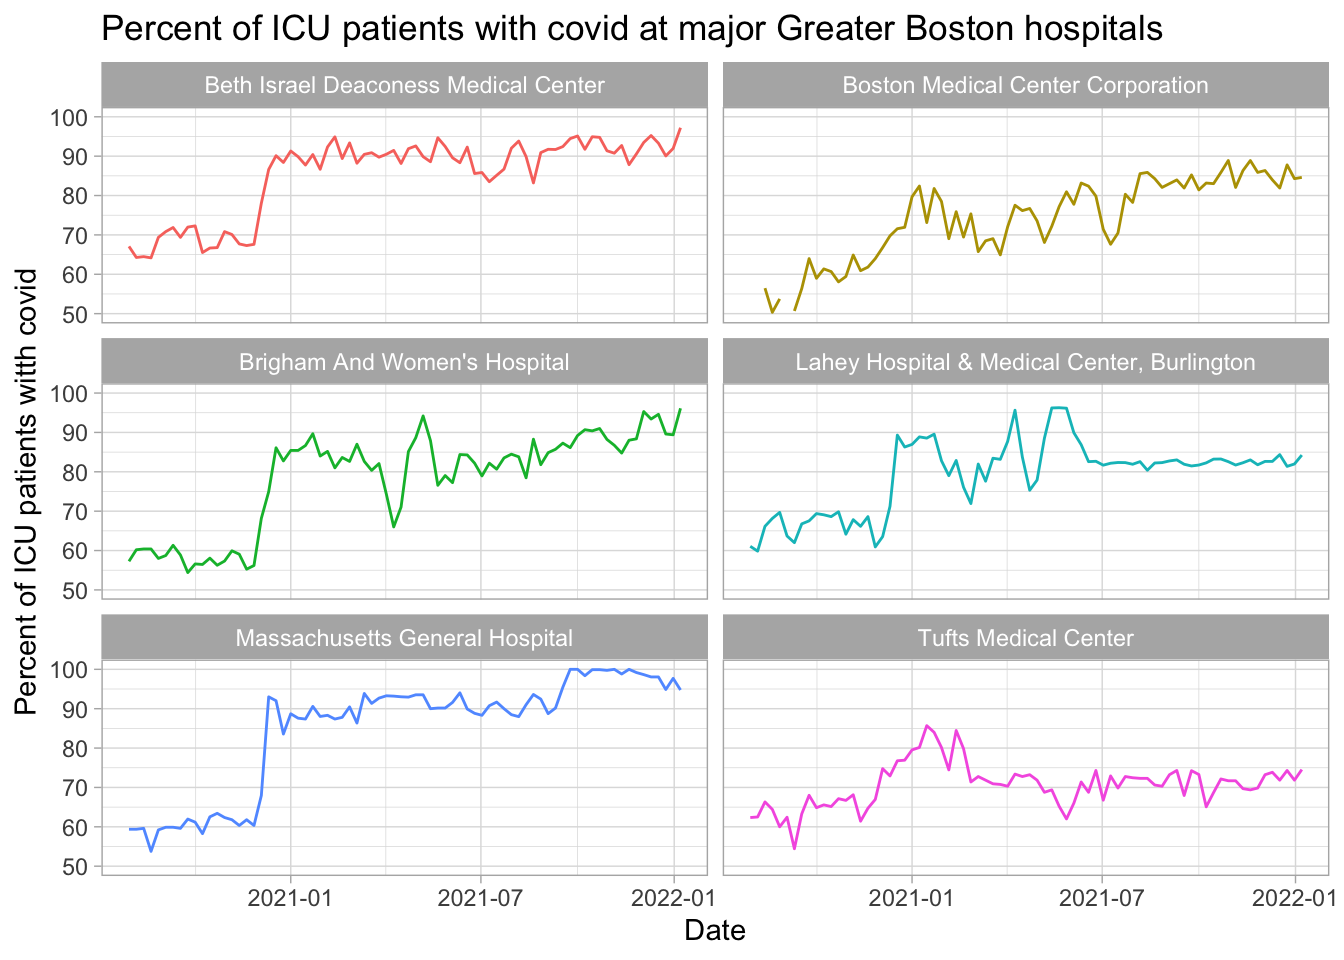
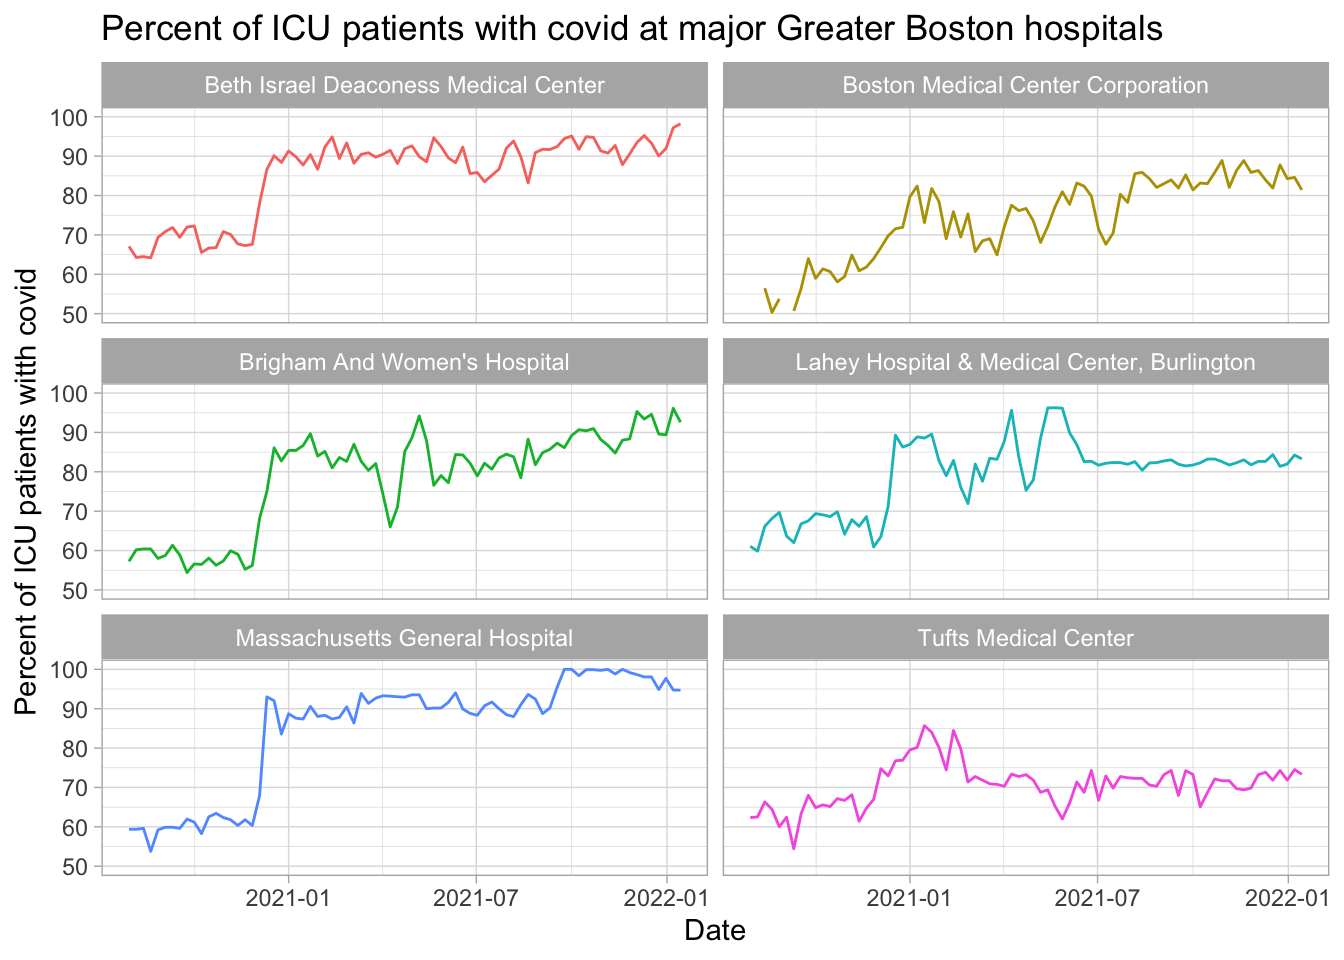
updated data

diff --git a/docs/index.html b/docs/index.html
@@ -290,7 +290,7 @@ $(document).ready(function () {
 <p><img src="index_files/figure-html/unnamed-chunk-3-1.png" width="672" /></p>
 <div id="hospital-data" class="section level3">
 <h3>Hospital data</h3>
-<p>The US Department of Health and Human Services gives data on hospital usage. Here are data of ICU bed availability for hospitals in this area with at least 25 staffed ICU beds, using data from the week starting 2022-01-07.</p>
+<p>The US Department of Health and Human Services gives data on hospital usage. Here are data of ICU bed availability for hospitals in this area with at least 25 staffed ICU beds, using data from the week starting 2022-01-14.</p>
 <table>
 <thead>
 <tr class="header">
@@ -303,9 +303,9 @@ $(document).ready(function () {
 <tbody>
 <tr class="odd">
 <td align="left">Beth Israel Deaconess Medical Center</td>
-<td align="right">15</td>
-<td align="right">140</td>
-<td align="right">90</td>
+<td align="right">10</td>
+<td align="right">138</td>
+<td align="right">93</td>
 </tr>
 <tr class="even">
 <td align="left">Boston Children’s Hospital</td>
@@ -315,33 +315,39 @@ $(document).ready(function () {
 </tr>
 <tr class="odd">
 <td align="left">Boston Medical Center Corporation</td>
-<td align="right">17</td>
-<td align="right">97</td>
-<td align="right">83</td>
-</tr>
-<tr class="even">
-<td align="left">Brigham And Women’s Hospital</td>
-<td align="right">4</td>
-<td align="right">144</td>
+<td align="right">16</td>
 <td align="right">98</td>
-</tr>
-<tr class="odd">
-<td align="left">Lahey Hospital &amp; Medical Center, Burlington</td>
-<td align="right">9</td>
-<td align="right">55</td>
 <td align="right">84</td>
 </tr>
 <tr class="even">
-<td align="left">Massachusetts General Hospital</td>
-<td align="right">10</td>
-<td align="right">146</td>
-<td align="right">93</td>
+<td align="left">Brigham And Women’s Hospital</td>
+<td align="right">7</td>
+<td align="right">154</td>
+<td align="right">95</td>
 </tr>
 <tr class="odd">
+<td align="left">Lahey Hospital &amp; Medical Center, Burlington</td>
+<td align="right">10</td>
+<td align="right">60</td>
+<td align="right">83</td>
+</tr>
+<tr class="even">
+<td align="left">Massachusetts General Hospital</td>
+<td align="right">9</td>
+<td align="right">146</td>
+<td align="right">94</td>
+</tr>
+<tr class="odd">
+<td align="left">Mount Auburn Hospital</td>
+<td align="right">6</td>
+<td align="right">25</td>
+<td align="right">75</td>
+</tr>
+<tr class="even">
 <td align="left">Tufts Medical Center</td>
-<td align="right">42</td>
-<td align="right">125</td>
-<td align="right">67</td>
+<td align="right">46</td>
+<td align="right">129</td>
+<td align="right">65</td>
 </tr>
 </tbody>
 </table>
@@ -351,7 +357,7 @@ $(document).ready(function () {
 <p><img src="index_files/figure-html/unnamed-chunk-6-1.png" width="672" /></p>
 <p>And those intubated:</p>
 <p><img src="index_files/figure-html/unnamed-chunk-7-1.png" width="672" /></p>
-<p>Plotting percentage of ICU patients with covid over time (up to the week starting 2022-01-07). Some hospitals have much more frequently updated data than others; some is fairly gappy. This just plots the hospitals that average at least 25 staffed <em>adult</em> ICU beds per week.</p>
+<p>Plotting percentage of ICU patients with covid over time (up to the week starting 2022-01-14). Some hospitals have much more frequently updated data than others; some is fairly gappy. This just plots the hospitals that average at least 25 staffed <em>adult</em> ICU beds per week.</p>
 <p><img src="index_files/figure-html/unnamed-chunk-8-1.png" width="672" /></p>
 </div>
 

diff --git a/docs/individualhospitals.html b/docs/individualhospitals.html
@@ -294,9 +294,9 @@ $(document).ready(function () {
 <tbody>
 <tr class="odd">
 <td align="left">Beth Israel Deaconess Medical Center</td>
-<td align="right">15</td>
-<td align="right">140</td>
-<td align="right">90</td>
+<td align="right">10</td>
+<td align="right">138</td>
+<td align="right">93</td>
 </tr>
 <tr class="even">
 <td align="left">Boston Children’s Hospital</td>
@@ -306,33 +306,39 @@ $(document).ready(function () {
 </tr>
 <tr class="odd">
 <td align="left">Boston Medical Center Corporation</td>
-<td align="right">17</td>
-<td align="right">97</td>
-<td align="right">83</td>
-</tr>
-<tr class="even">
-<td align="left">Brigham And Women’s Hospital</td>
-<td align="right">4</td>
-<td align="right">144</td>
+<td align="right">16</td>
 <td align="right">98</td>
-</tr>
-<tr class="odd">
-<td align="left">Lahey Hospital &amp; Medical Center, Burlington</td>
-<td align="right">9</td>
-<td align="right">55</td>
 <td align="right">84</td>
 </tr>
 <tr class="even">
-<td align="left">Massachusetts General Hospital</td>
-<td align="right">10</td>
-<td align="right">146</td>
-<td align="right">93</td>
+<td align="left">Brigham And Women’s Hospital</td>
+<td align="right">7</td>
+<td align="right">154</td>
+<td align="right">95</td>
 </tr>
 <tr class="odd">
+<td align="left">Lahey Hospital &amp; Medical Center, Burlington</td>
+<td align="right">10</td>
+<td align="right">60</td>
+<td align="right">83</td>
+</tr>
+<tr class="even">
+<td align="left">Massachusetts General Hospital</td>
+<td align="right">9</td>
+<td align="right">146</td>
+<td align="right">94</td>
+</tr>
+<tr class="odd">
+<td align="left">Mount Auburn Hospital</td>
+<td align="right">6</td>
+<td align="right">25</td>
+<td align="right">75</td>
+</tr>
+<tr class="even">
 <td align="left">Tufts Medical Center</td>
-<td align="right">42</td>
-<td align="right">125</td>
-<td align="right">67</td>
+<td align="right">46</td>
+<td align="right">129</td>
+<td align="right">65</td>
 </tr>
 </tbody>
 </table>
